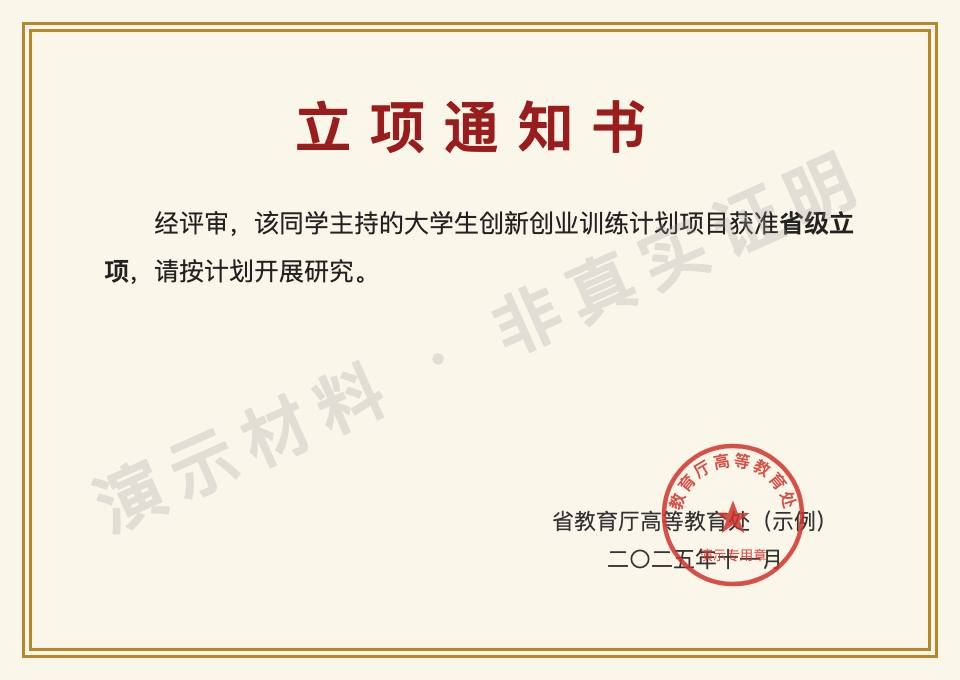
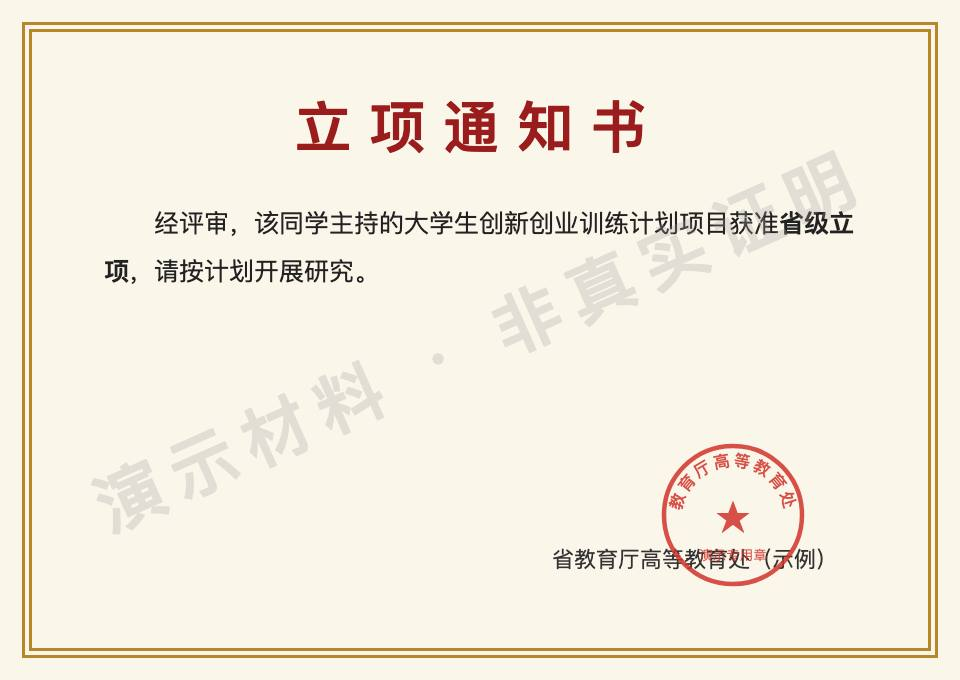
fix(demo): keep shared project proof independent of term

Changed region(s): [[0.5625, 0.7412, 0.875, 0.8338]]

diff --git a/tools/demo/tests/pictures.test.ts b/tools/demo/tests/pictures.test.ts
@@ -11,7 +11,8 @@ import { PROOF_ASSETS } from '../seed/files.ts'
 
 const ASSETS = path.resolve('tools/demo/assets')
 const DATED = /二〇[〇一二三四五六七八九]{2}年|\d{4}\s*年|\d{4}-\d{2}-\d{2}/
-const shared = [...new Set(Object.values(PROOF_ASSETS).flat())]
+// Selection applications also reuse the provincial project notice across terms.
+const shared = [...new Set([...Object.values(PROOF_ASSETS).flat(), 'research-3'])]
 
 describe('the pictures claims are filed with', () => {
   it('are drawn and rendered', () => {

diff --git a/tools/demo/pictures.ts b/tools/demo/pictures.ts
@@ -383,7 +383,6 @@ export const PICTURES: Readonly<Record<string, string>> = {
     '立项通知书',
     '经评审，该同学主持的大学生创新创业训练计划项目获准<b>省级立项</b>，请按计划开展研究。',
     '省教育厅高等教育处（示例）',
-    '二〇二五年十一月',
   ),
   // the qualifying papers, whole, and each with the one thing missing that
   // an ask or a refusal names (seed/papers.ts)
